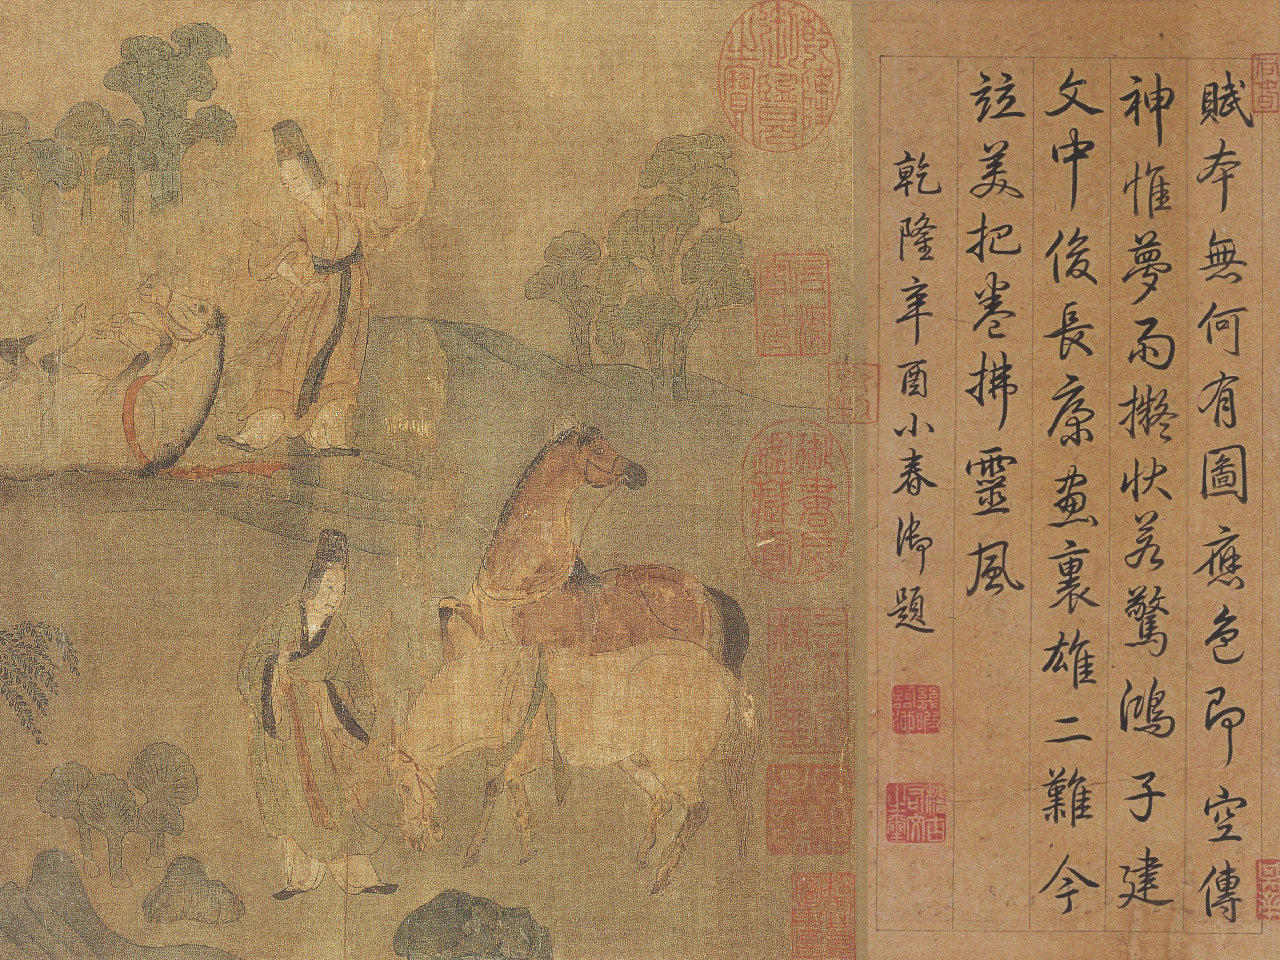
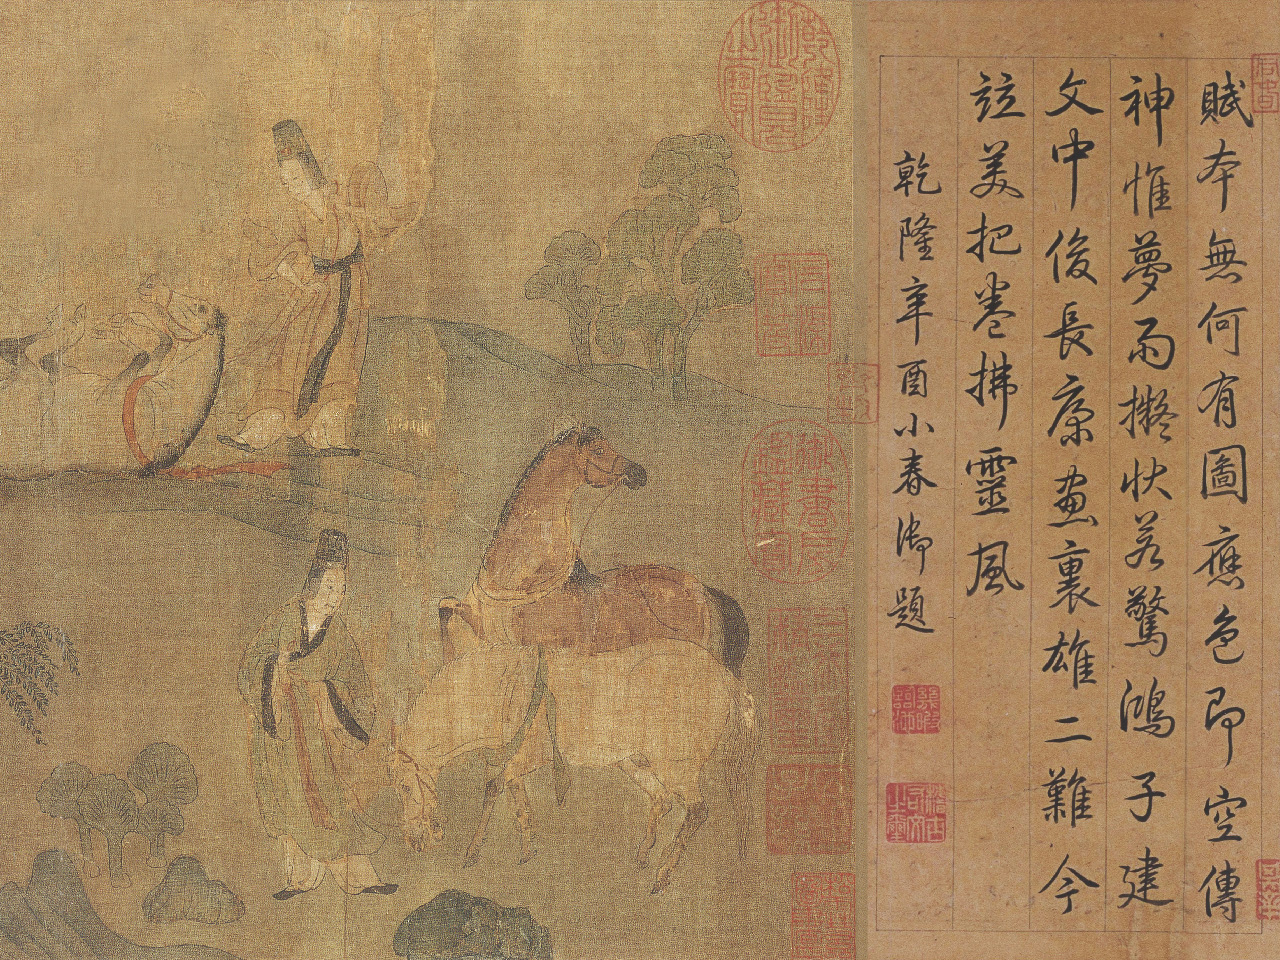
tree

Changed region(s): [[0.0, 0.0, 0.1875, 0.25]]

diff --git a/h5/set/scroll01/index.html b/h5/set/scroll01/index.html
@@ -109,7 +109,8 @@ window.onload=function (){
 
 	var picjson=[
 	{ "dis":854,"width":1280,"background":"url(img/lsf_0.jpg) no-repeat"},
-	{ "dis":426,"class":"my","width":612,"top":120,"background":"url(img/01.png) no-repeat"},
+	{ "dis":187,"class":"my","width":612,"top":120,"background":"url(img/01.png) no-repeat"},
+	{ "dis":239,"class":"tree","width":291,"top":22,"background":"url(img/tree01.png) no-repeat"},
 	{ "dis":1280,"width":1280,"background":"url(img/lsf_1.jpg) no-repeat"},	
 	{ "dis":1280,"width":1280,"background":"url(img/lsf_2.jpg) no-repeat"},
 	{ "dis":1280,"width":1280,"background":"url(img/lsf_3.jpg) no-repeat"},
@@ -163,7 +164,8 @@ window.onload=function (){
 		if(picjson[i].class)
 		{
 			document.getElementById('pic'+i).className = picjson[i].class;
-			document.getElementById('pic'+i).style.zIndex="2";
+			if(picjson[i].class=="tree") document.getElementById('pic'+i).style.zIndex="2";
+			else document.getElementById('pic'+i).style.zIndex="3";
 		}
 	}
 
@@ -186,8 +188,11 @@ window.onload=function (){
 	
 	function getOpacity(m)
 	{
-		m=Math.abs(m-swidth*0.5);
-		m=1-(0.8*2*m/swidth);		
+		m=Math.abs(m);
+		
+		m=1-(1.2*2*m/swidth);	
+		m+=0.3;
+		//console.log(m);		
 		if(m<0) return 0;
 		if(m>1) return 1;
 		return m;
@@ -208,7 +213,17 @@ window.onload=function (){
 				//console.log("get");
 				document.getElementById('pic'+i).style.display="block";
 				document.getElementById('pic'+i).style.right=right+"px";
-				if(document.getElementById('pic'+i).className=="my") document.getElementById('pic'+i).style.opacity =  getOpacity((left+right)/2); 
+				mdis=(left+right-swidth)/2;
+				if(document.getElementById('pic'+i).className=="my") 
+				{					
+					document.getElementById('pic'+i).style.opacity =  getOpacity(mdis); 
+					//document.getElementById('pic'+i).style.right=right+mdis*0.1+"px";
+				}
+				if(document.getElementById('pic'+i).className=="tree") 
+				{					
+					document.getElementById('pic'+i).style.opacity =  getOpacity(mdis); 
+					document.getElementById('pic'+i).style.right=right-mdis*0.08+"px";
+				}
 			}else document.getElementById('pic'+i).style.display="none";
 		}
 		/*
